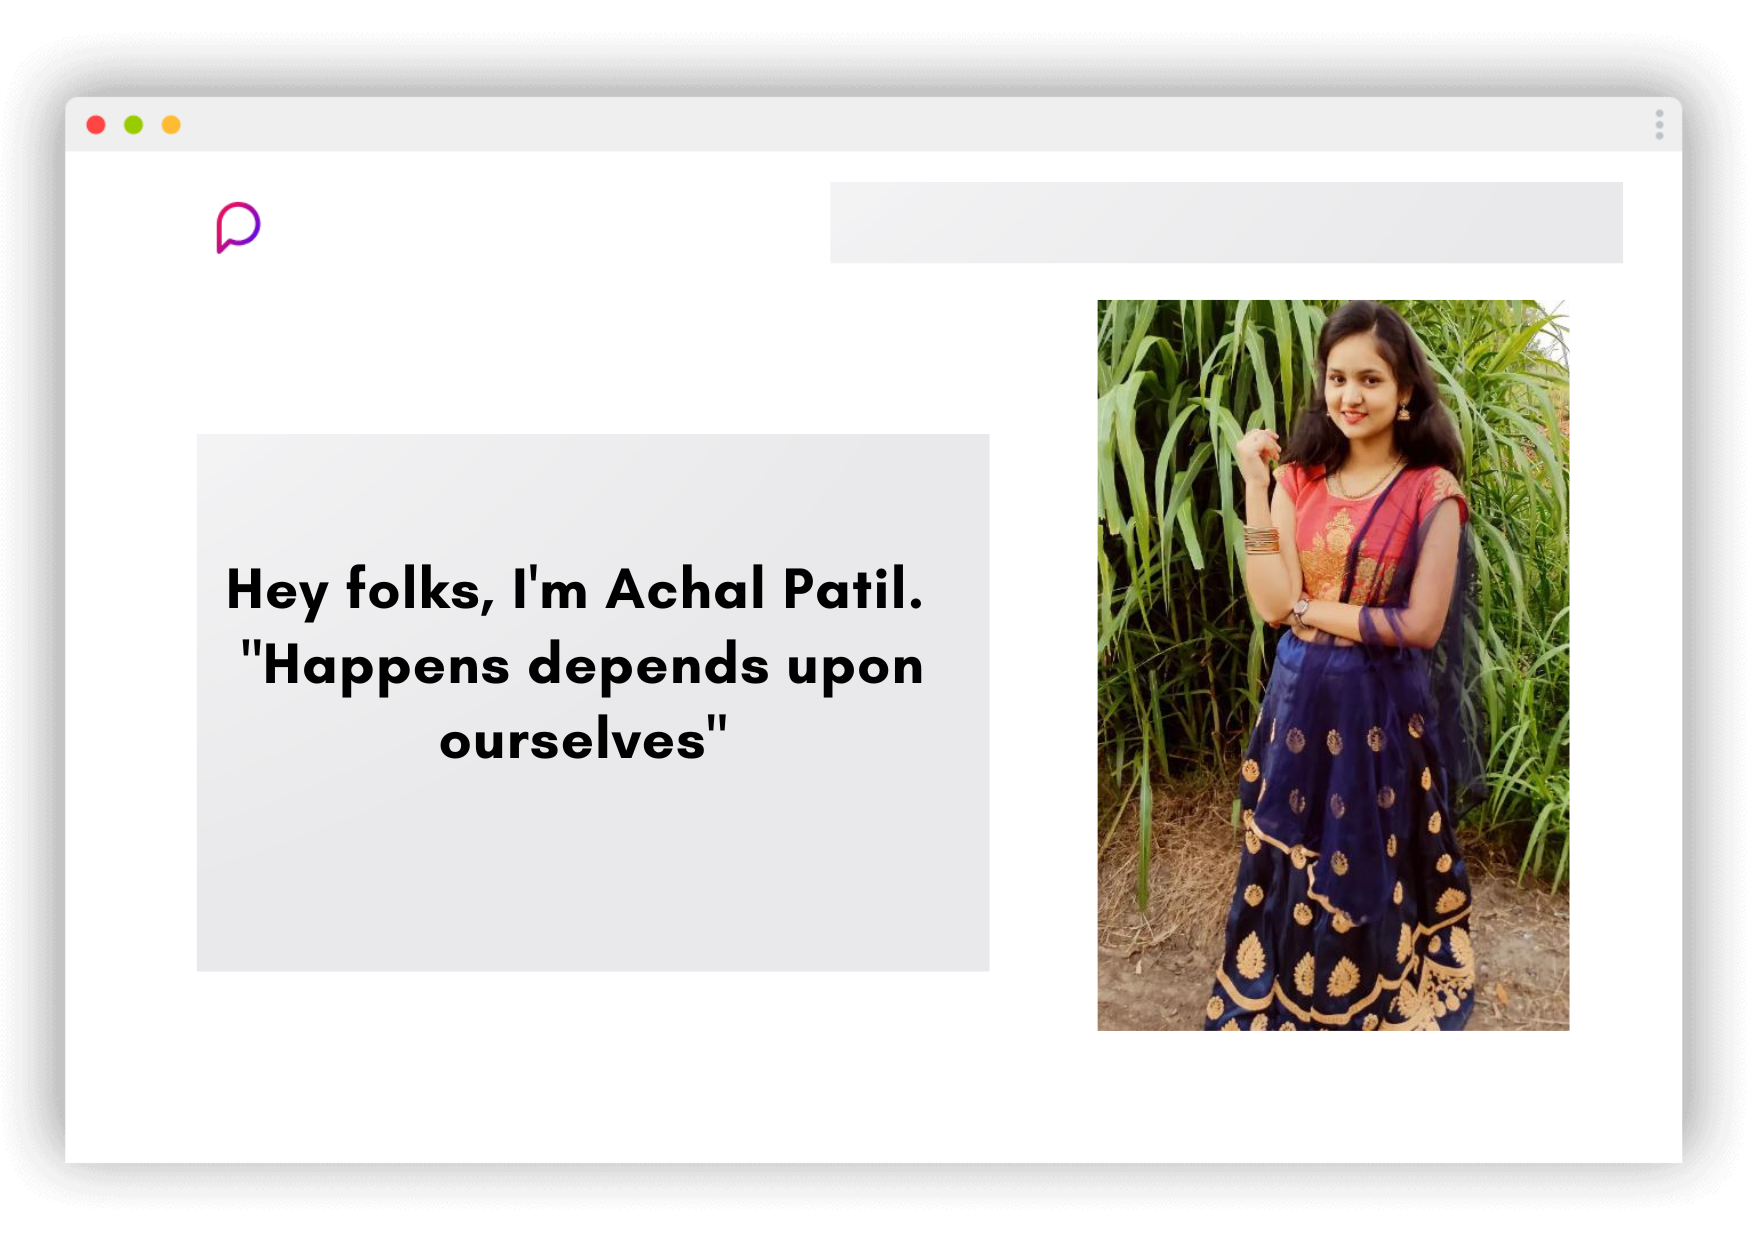
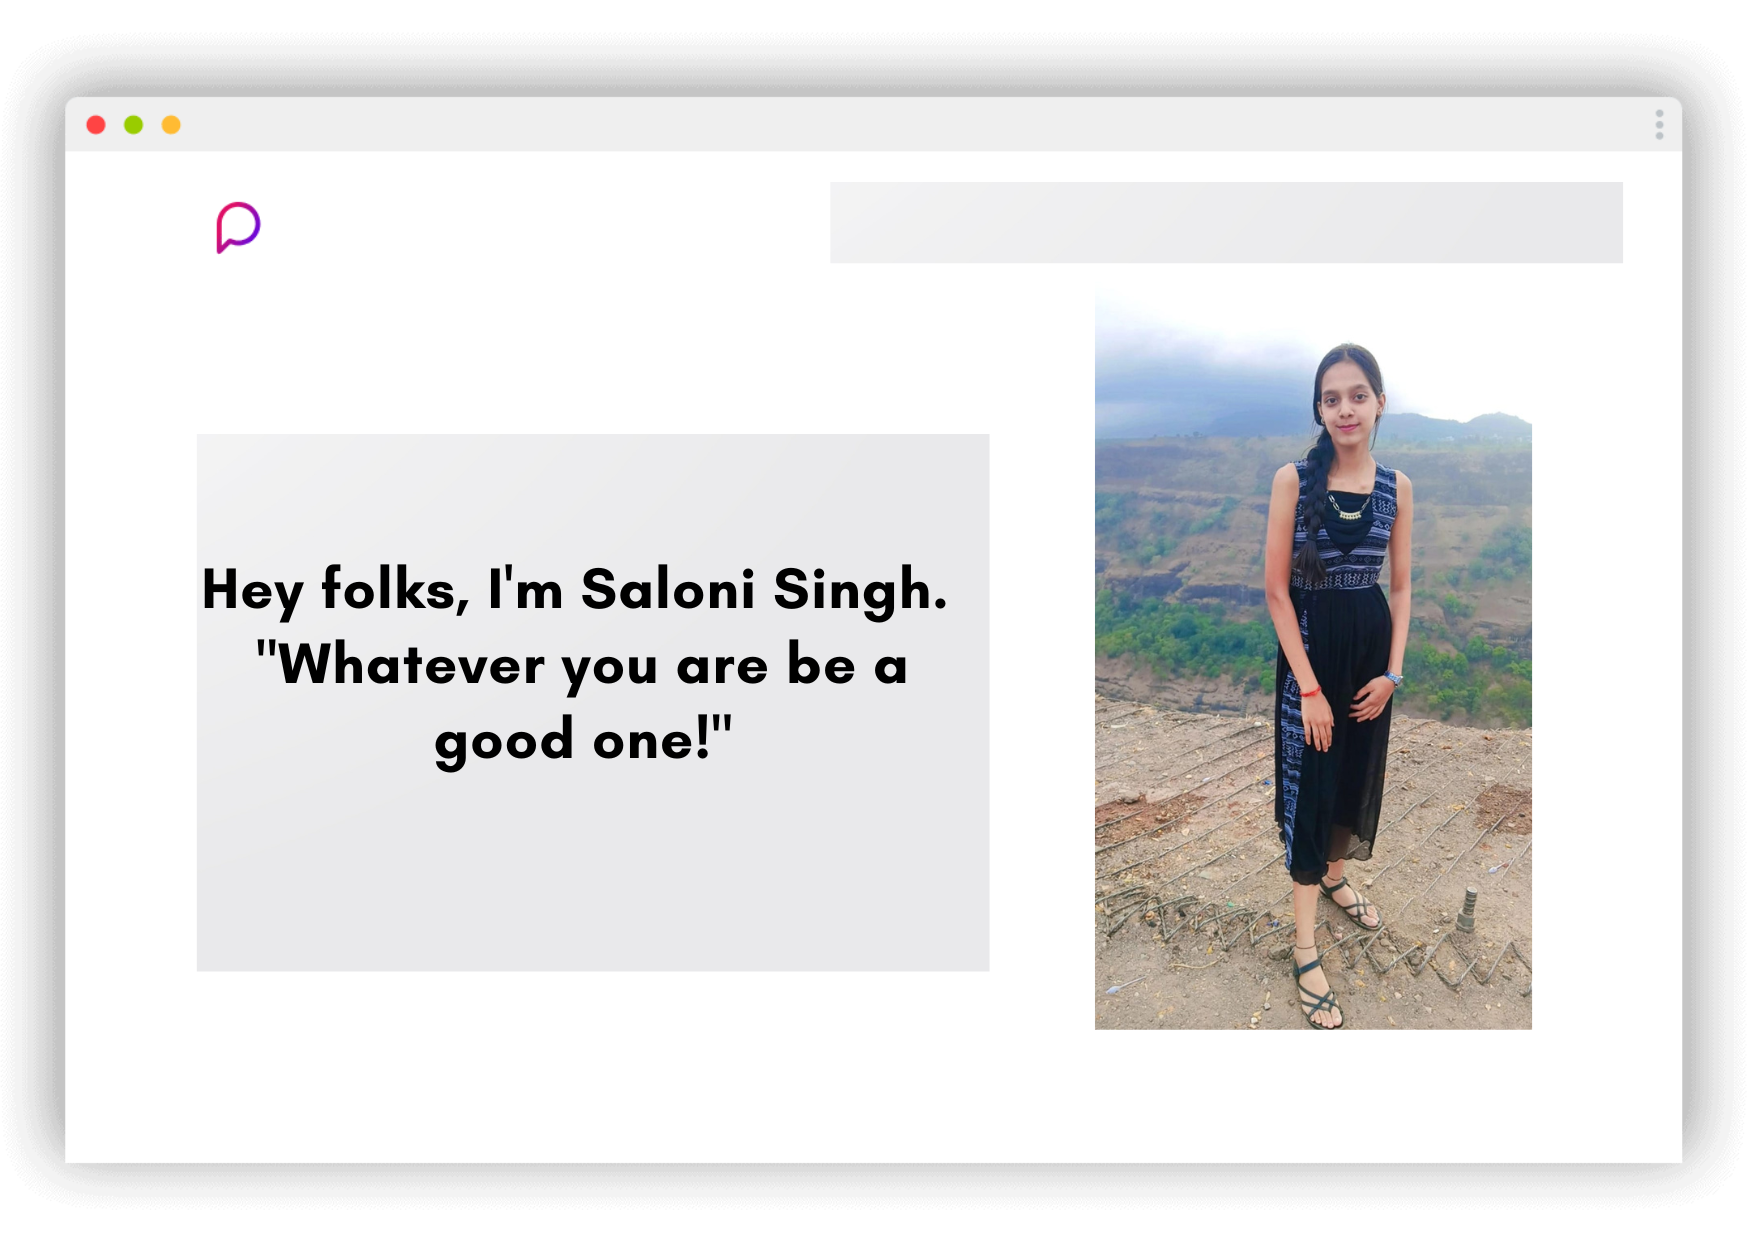
commit

Changed region(s): [[0.6178, 0.2145, 0.8959, 0.8581], [0.0927, 0.429, 0.5561, 0.6435]]

diff --git a/index.html b/index.html
@@ -29,7 +29,7 @@ https://www.tooplate.com/view/2115-marvel
     <!-- MENU -->
     <nav class="navbar navbar-expand-sm navbar-light">
         <div class="container">
-            <a class="navbar-brand" href="index.html"><i class='uil uil-user'></i> Marvel</a>
+            <a class="navbar-brand" href="index.html"><i class='uil uil-user'></i>GROUP_8</a>
 
             <button class="navbar-toggler" type="button" data-toggle="collapse" data-target="#navbarNav" aria-controls="navbarNav" aria-expanded="false"
                 aria-label="Toggle navigation">
@@ -58,7 +58,7 @@ https://www.tooplate.com/view/2115-marvel
                     <div class="ml-lg-4">
                       <div class="color-mode d-lg-flex justify-content-center align-items-center">
                         <i class="color-mode-icon"></i>
-                        Color mode
+                        Color Mode
                       </div>
                     </div>
                 </ul>
@@ -73,7 +73,7 @@ https://www.tooplate.com/view/2115-marvel
                 
                 <div class="col-lg-7 col-md-12 col-12 d-flex align-items-center">
                     <div class="about-text">
-                        <small class="small-text">Welcome to <span class="mobile-block">my portfolio website!</span></small>
+                        <small class="small-text">Welcome To <span class="mobile-block">OUR Portfolio Website!</span></small>
                         <h1 class="animated animated-text">
                             <span class="mr-2">Hey folks, I'm</span>
                                 <div class="animated-info">
@@ -83,7 +83,7 @@ https://www.tooplate.com/view/2115-marvel
                                 </div>
                         </h1>
 
-                        <p>Building a successful product is a challenge. I am highly energetic in user experience design, interfaces and web development.</p>
+                        <p>Building a successful product is a challenge. We are highly energetic in user experience design, interfaces and web development.</p>
                         
                         <div class="custom-btn-group mt-4">
                           <a href="#" class="btn mr-lg-2 custom-btn"><i class='uil uil-file-alt'></i> Download Resume</a>
@@ -94,7 +94,7 @@ https://www.tooplate.com/view/2115-marvel
 
                 <div class="col-lg-5 col-md-12 col-12">
                     <div class="about-image svg">
-                        <img src="images/undraw/undraw_software_engineer_lvl5.svg" class="img-fluid" alt="svg image">
+                        <img src="images/undraw/home_img.svg" class="img-fluid" alt="svg image">
                     </div>
                 </div>
 
@@ -110,16 +110,10 @@ https://www.tooplate.com/view/2115-marvel
                   <div class="col-lg-11 text-center mx-auto col-12">
 
                       <div class="col-lg-8 mx-auto">
-                        <h2>Things I have designed for digital media agencies</h2>
+                        <h2>Team Work makes the Dream Work</h2>
                       </div>
 
                       <div class="owl-carousel owl-theme">
-                        <div class="item">
-                          <div class="project-info">
-                            <img src="images/project/4.png" class="img-fluid" alt="project image">
-                          </div>
-                        </div>
-
                         <div class="item">
                           <div class="project-info">
                             <img src="images/project/1.png" class="img-fluid" alt="project image">
@@ -128,19 +122,25 @@ https://www.tooplate.com/view/2115-marvel
 
                         <div class="item">
                           <div class="project-info">
-                            <img src="images/project/project-image03.png" class="img-fluid" alt="project image">
+                            <img src="images/project/2.png" class="img-fluid" alt="project image">
                           </div>
                         </div>
 
                         <div class="item">
                           <div class="project-info">
-                            <img src="images/project/project-image04.png" class="img-fluid" alt="project image">
+                            <img src="images/project/3.png" class="img-fluid" alt="project image">
                           </div>
                         </div>
 
                         <div class="item">
                           <div class="project-info">
-                            <img src="images/project/project-image05.png" class="img-fluid" alt="project image">
+                            <img src="images/project/4.png" class="img-fluid" alt="project image">
+                          </div>
+                        </div>
+
+                        <div class="item">
+                          <div class="project-info">
+                            <img src="images/project/5.png" class="img-fluid" alt="project image">
                           </div>
                         </div>
                       </div>
@@ -256,8 +256,8 @@ https://www.tooplate.com/view/2115-marvel
             <div class="contact-info d-flex justify-content-between align-items-center py-4 px-lg-5">
                 <div class="contact-info-item">
                   <h3 class="mb-3 text-white">Say hello</h3>
-                  <p class="footer-text mb-0">010 020 0960</p>
-                  <p><a href="mailto:hello@company.co">hello@company.co</a></p>
+                  <p class="footer-text mb-0">879 988 3659</p>
+                  <p><a href="https://mail.google.com/mail/u/0/?tab=rm&ogbl#inbox?compose=CllgCJqVwmzlJlBbnQvbvCLwMqgWKPWBtfClBlDZKfZXNlrgcRqxRKztMMSPNxsxPwdvqczZlxq">yashkiranchavan05@gmail.com</a></p>
                 </div>
 
                 <ul class="social-links">
